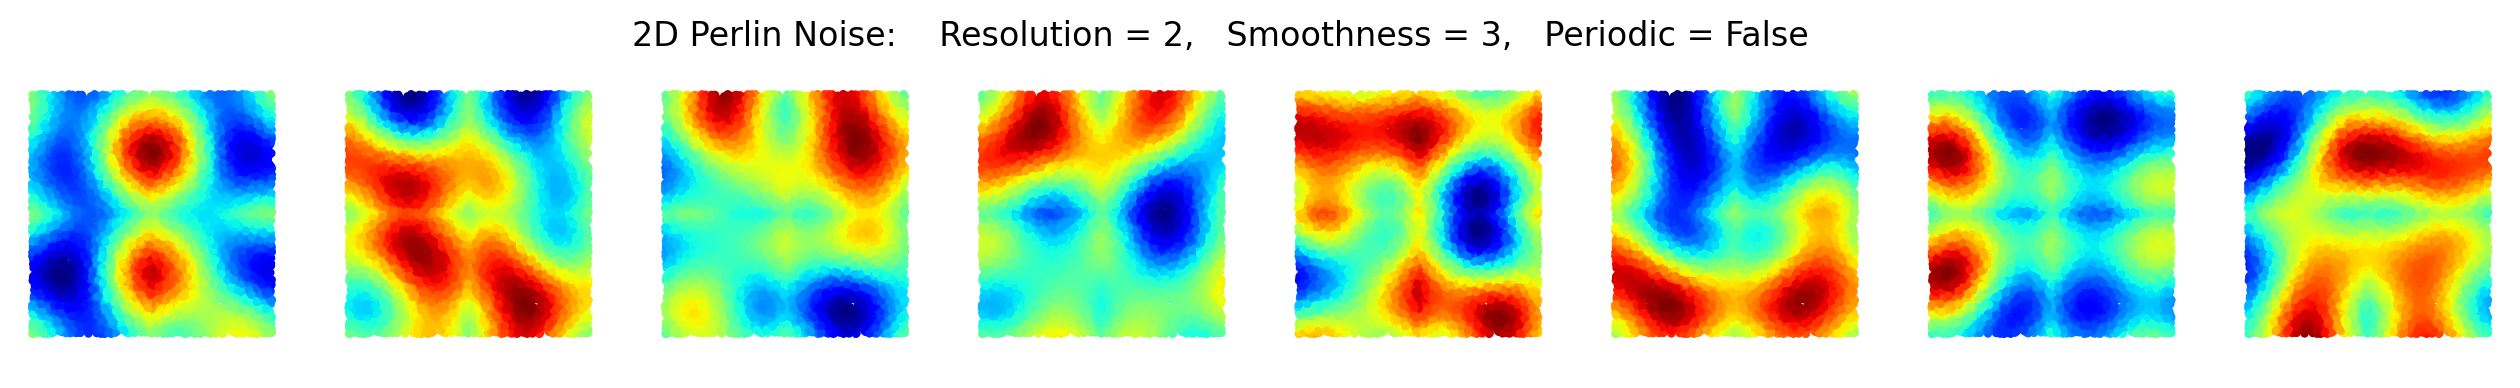
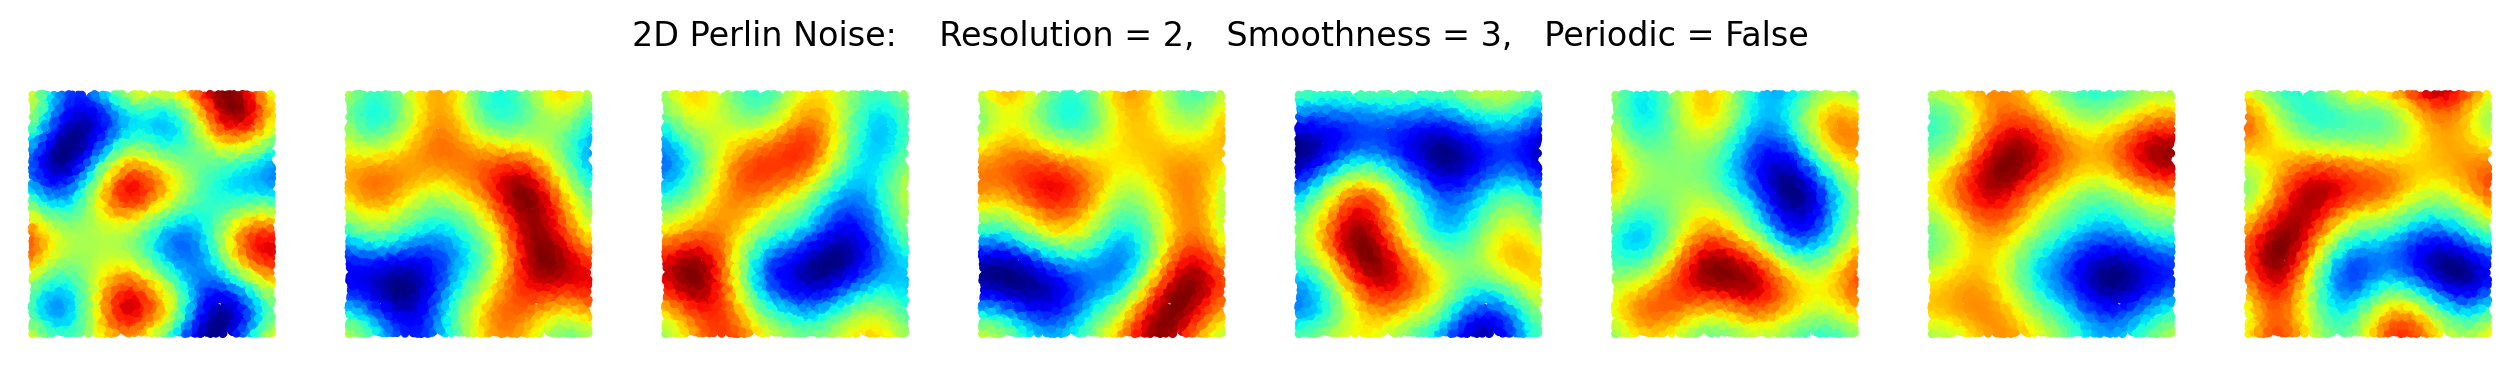
Fix PerlinNoise() vertex offset calculation error

diff --git a/noise.py b/noise.py
@@ -123,7 +123,7 @@ class PerlinNoise(nn.Module):
         if self.periodic:
             idxB[idxB == self.res] = 0    # -> wrap for periodic boundary
         idx = torch.stack((idxA, idxB), dim=-1)
-        offsets = torch.stack((locs, 1.0-locs), dim=-1)
+        offsets = torch.stack((locs, locs-1.0), dim=-1)
 
         idx_verts = []
         offsets_verts = []
